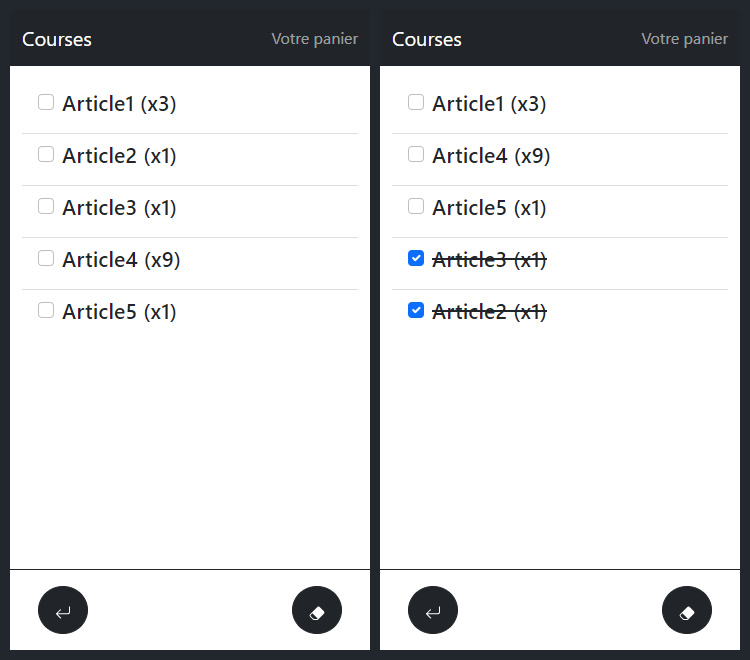
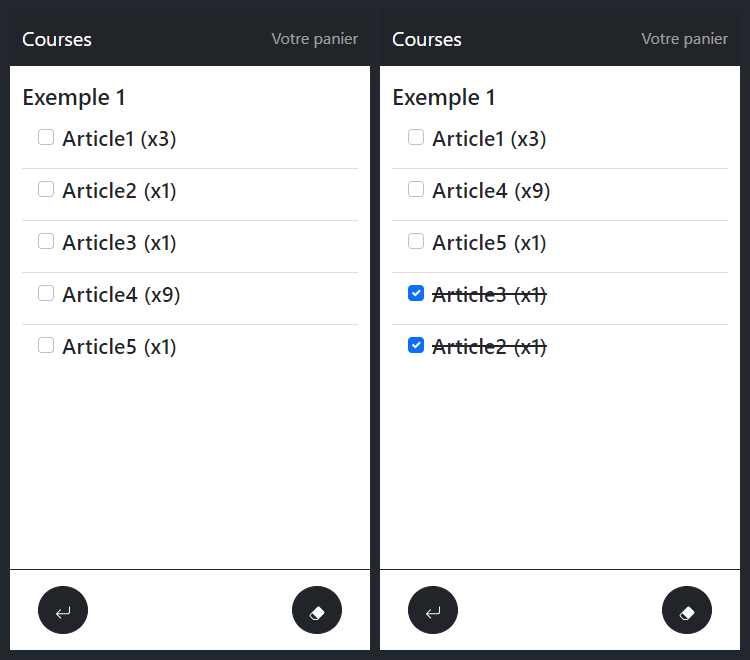
Ajustements jee/ListesCourses
- Suppression du taglib dans edit.jsp.
- Modification du sous-titres de l'header dans edit.jsp selon si un id est passé en paramètre ou non.
- Affichage du titre de la liste dans view.jsp.
- Modification des captures d'écrans mises à jour dans le README.md.

Changed region(s): [[0.5213, 0.1212, 0.736, 0.5455], [0.0307, 0.1212, 0.2453, 0.4848], [0.0613, 0.5152, 0.2453, 0.5455]]

diff --git a/jee/ListesCourses/src/main/webapp/assets/js/view.js b/jee/ListesCourses/src/main/webapp/assets/js/view.js
@@ -36,6 +36,8 @@ $(function() {
 		
 		$.get(`./api/listesCourses/${$ul.attr("data-id")}`).done(data => {
 			if(data) {
+				$("h3").text(data.nom)
+				
 				for(let article of data.articles) {
 					generateArticle(id, article)
 					id++;
